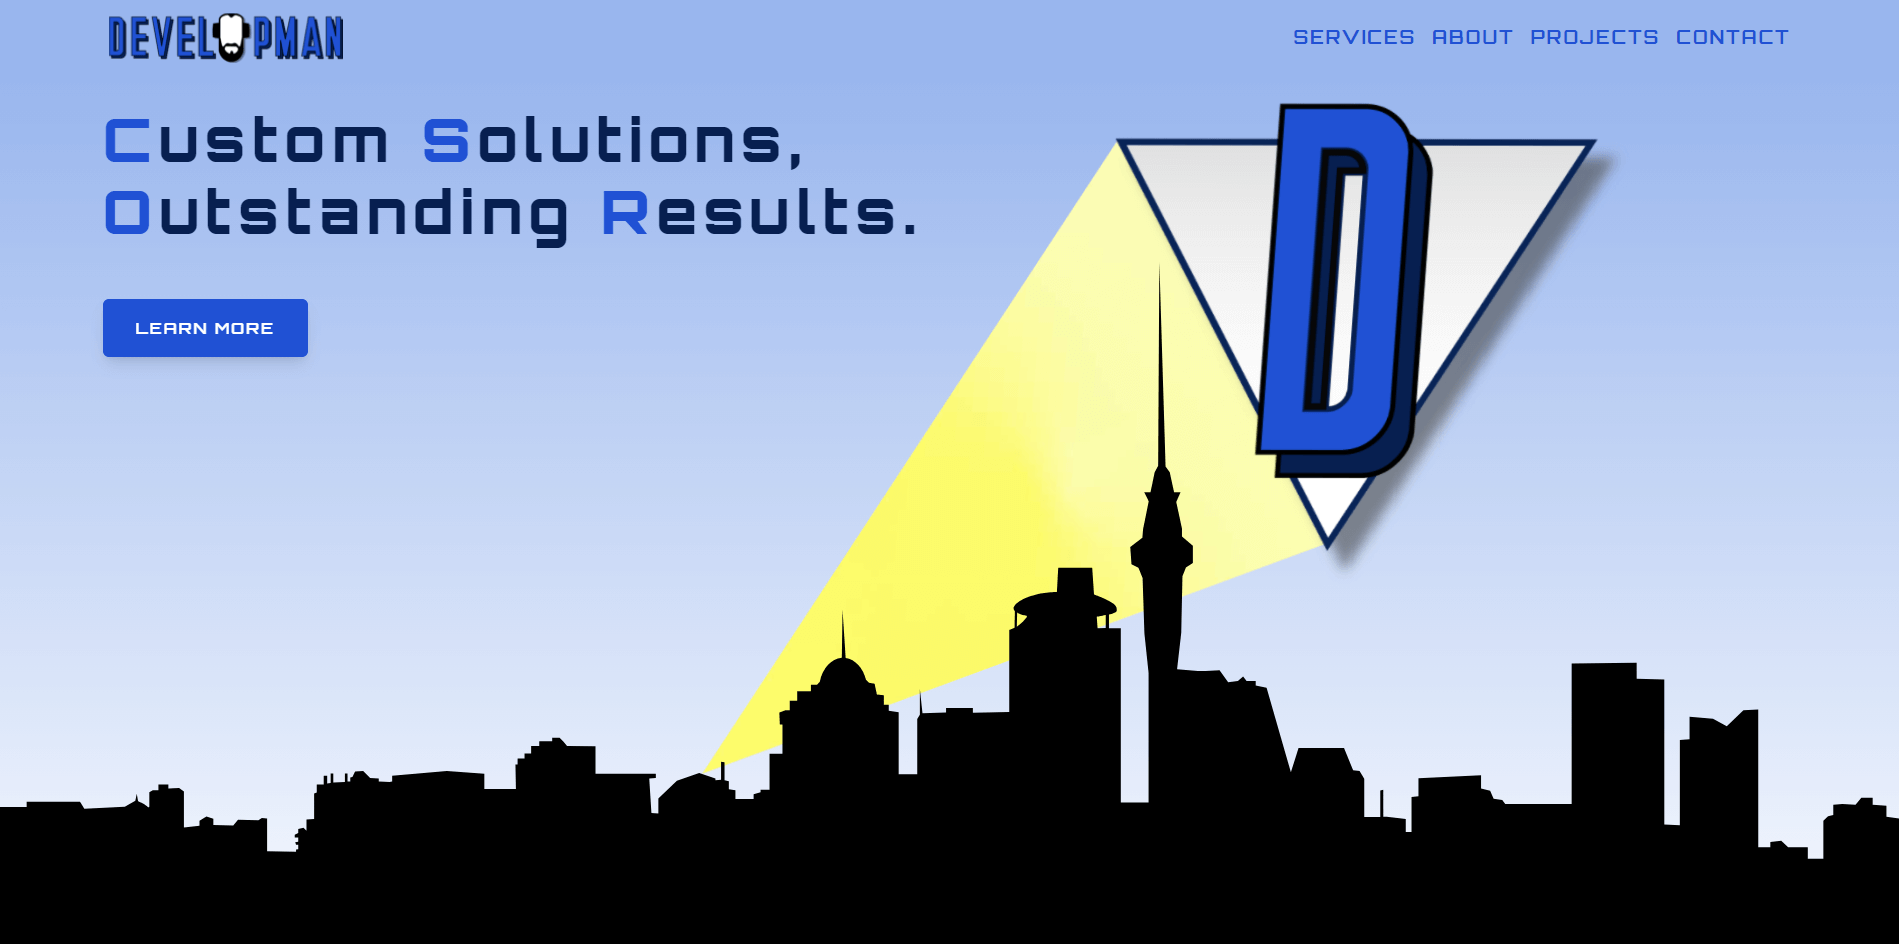
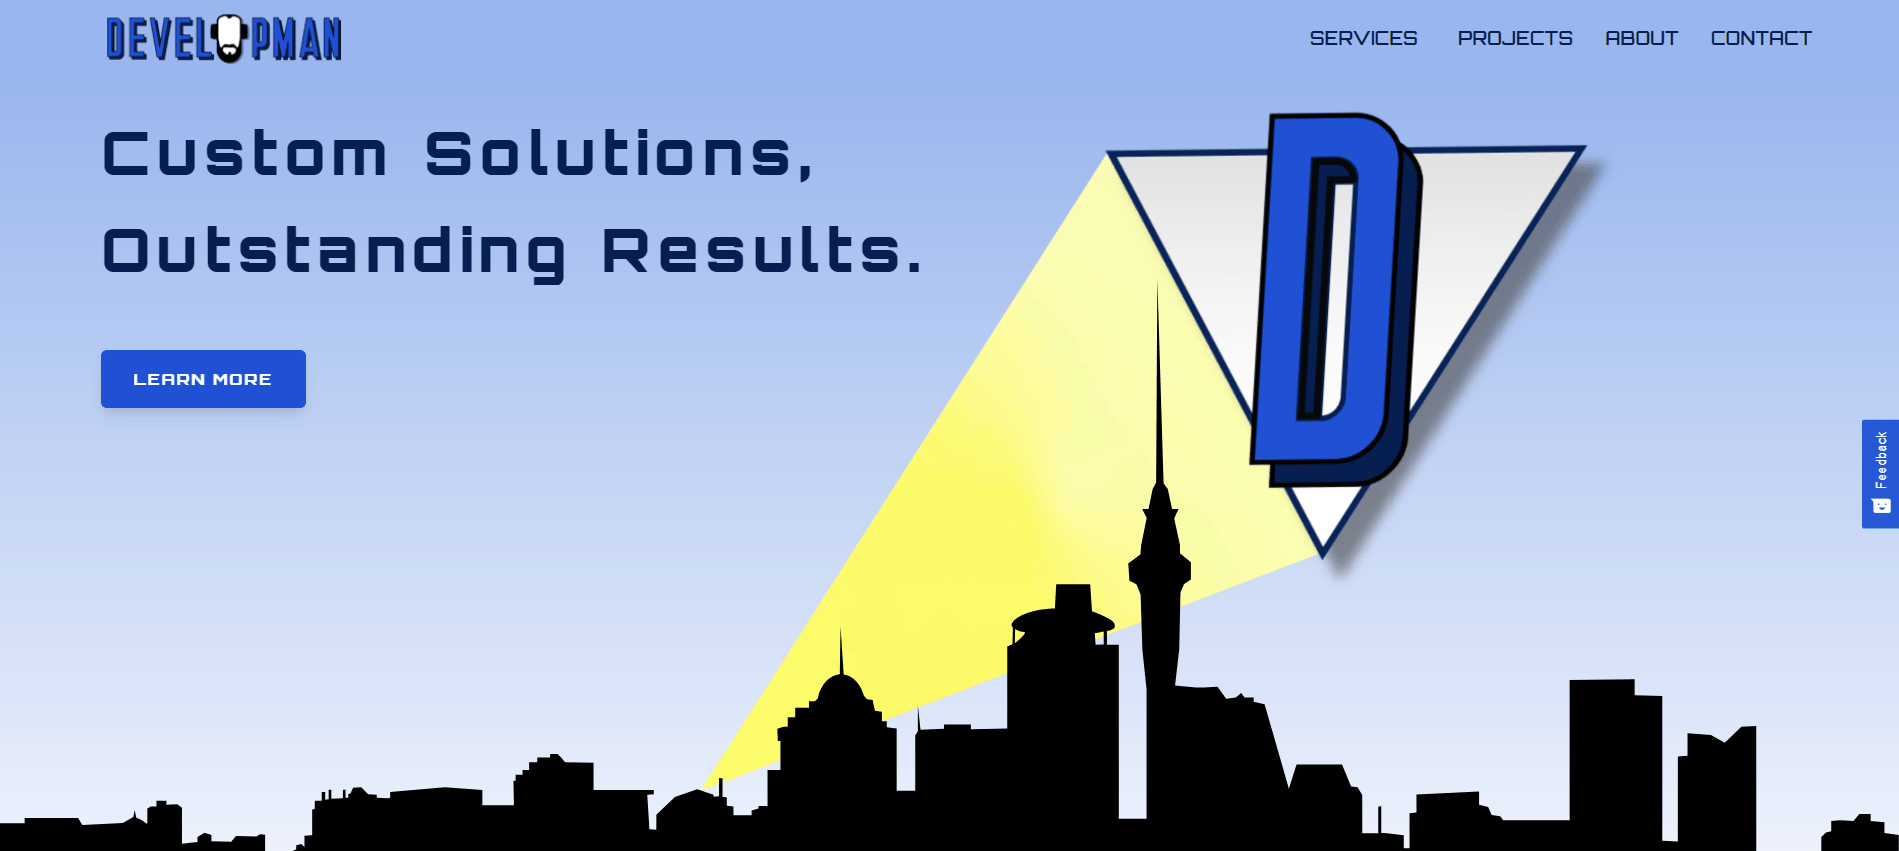
Developman project image optimized

diff --git a/resources/views/sections/footer.blade.php b/resources/views/sections/footer.blade.php
@@ -18,7 +18,7 @@
 
         <div class="flex flex-col space-y-10">
             <div class="sm:mt-0 sm:text-left sm:flex-row flex flex-col mt-8 font-black tracking-wider text-center uppercase">
-                <span class="text-dvlpmn-blue-light">Custom Solutions,</span>
+                <span class="text-dvlpmn-blue-light mr-2">Custom Solutions,</span>
                 <span class="text-dvlpmn-blue-dark">Outstanding Results.</span>
             </div>
             <div class="sm:text-right lg:justify-end flex justify-center mb-0 text-center">
